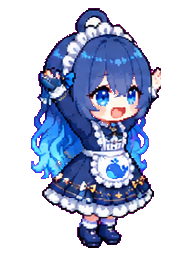
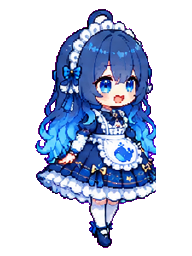
feat: 自转姿势改优雅版（垂手微张 + 裙摆浮起）
- 按主人草图重生 8 视角转面表 v2：双手下垂微张、裙摆被旋转撑成钟形、
  衬裙可见、脚尖并拢——优雅淑女
- make_spin_frames.py 换源到 v2；8 帧重新切片对齐（统一缩放 0.8541）
- smoke 169 全绿

diff --git a/tools/make_spin_frames.py b/tools/make_spin_frames.py
@@ -2,7 +2,7 @@
 # -*- coding: utf-8 -*-
 """make_spin_frames.py — 8 视角舞蹈转面表 → 游戏用旋转序列帧。
 
-输入: D:/zcode-work/pictures/output/2026-10-23-deepdeek-spin-sheet.png
+输入: D:/zcode-work/pictures/output/2026-10-23-deepdeek-spin-sheet-v2.png
       （1248x832，一行 8 格，每格 156 宽，品红底）
 输出: assets/art/rig/deepdeek-spin/s0.png .. s7.png
       每帧 192x256 画布、统一缩放（全局取最大身高）、脚底对齐、水平居中
@@ -13,7 +13,7 @@ import os
 import numpy as np
 from PIL import Image
 
-SRC = r"D:/zcode-work/pictures/output/2026-10-23-deepdeek-spin-sheet.png"
+SRC = r"D:/zcode-work/pictures/output/2026-10-23-deepdeek-spin-sheet-v2.png"
 ROOT = r"D:/zcode-work/godot/projects/prompt-arena"
 OUT = os.path.join(ROOT, "assets", "art", "rig", "deepdeek-spin")
 CELLS = 8
